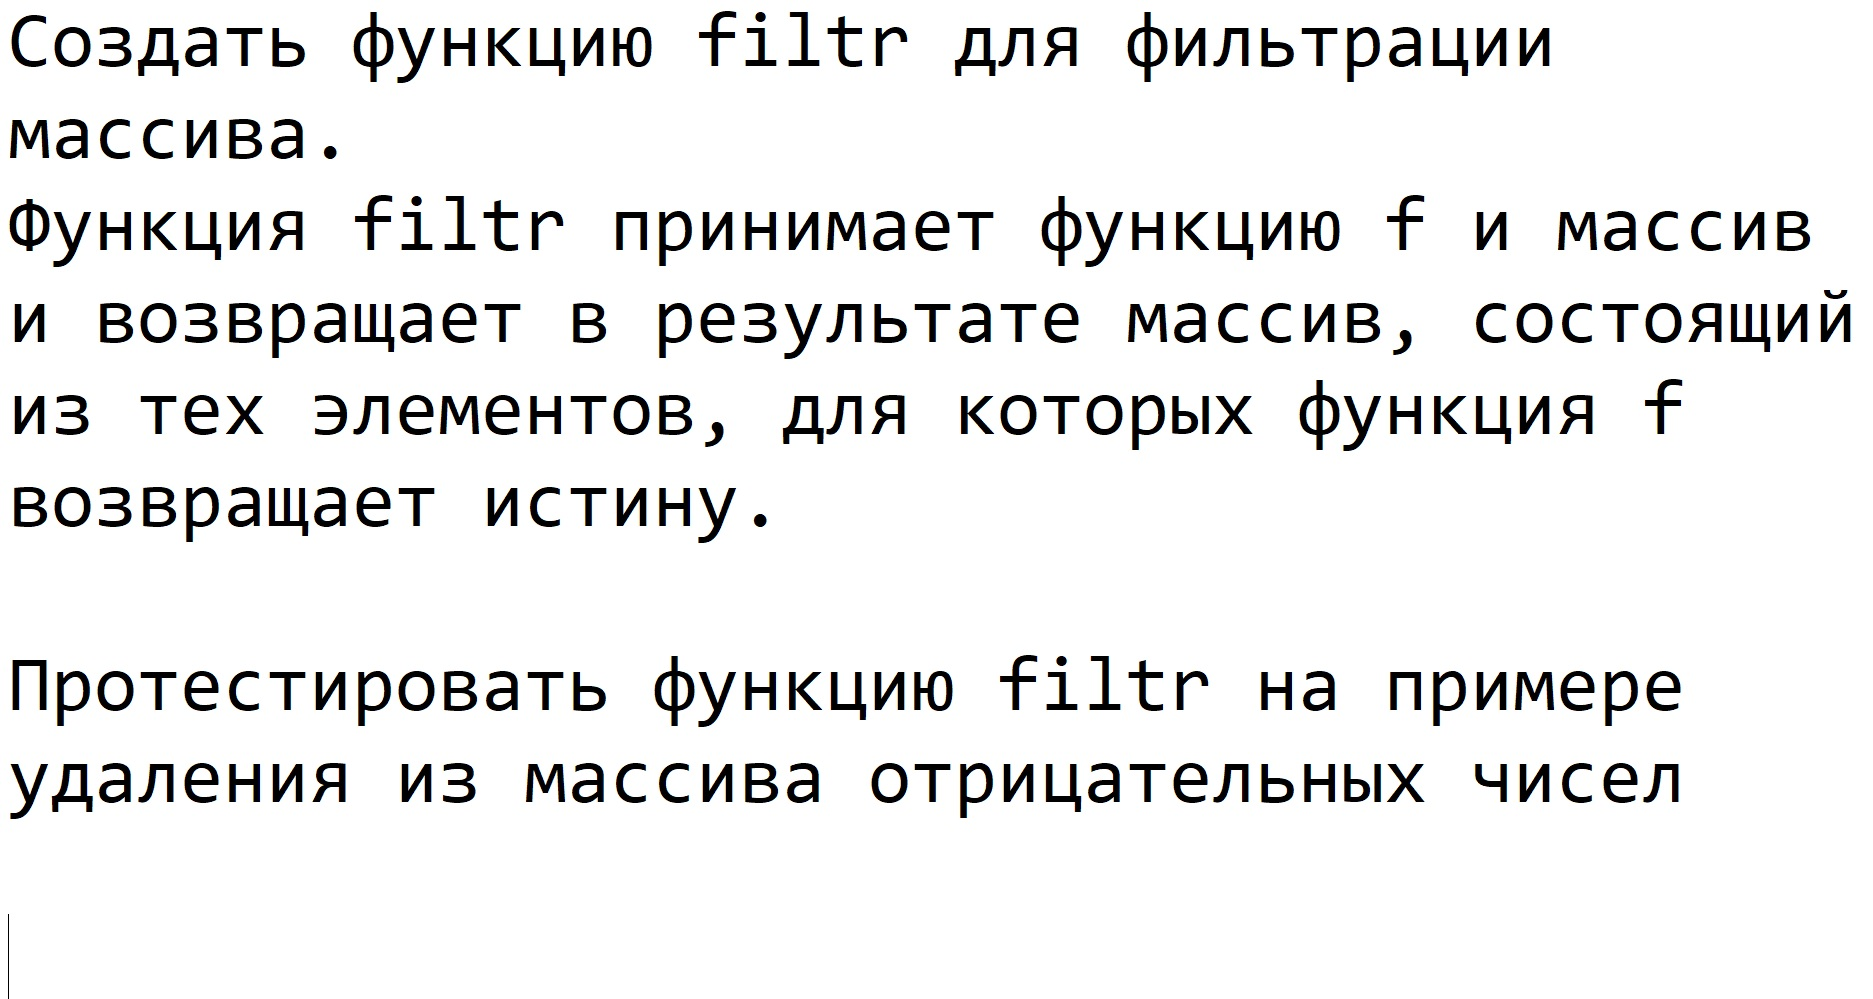
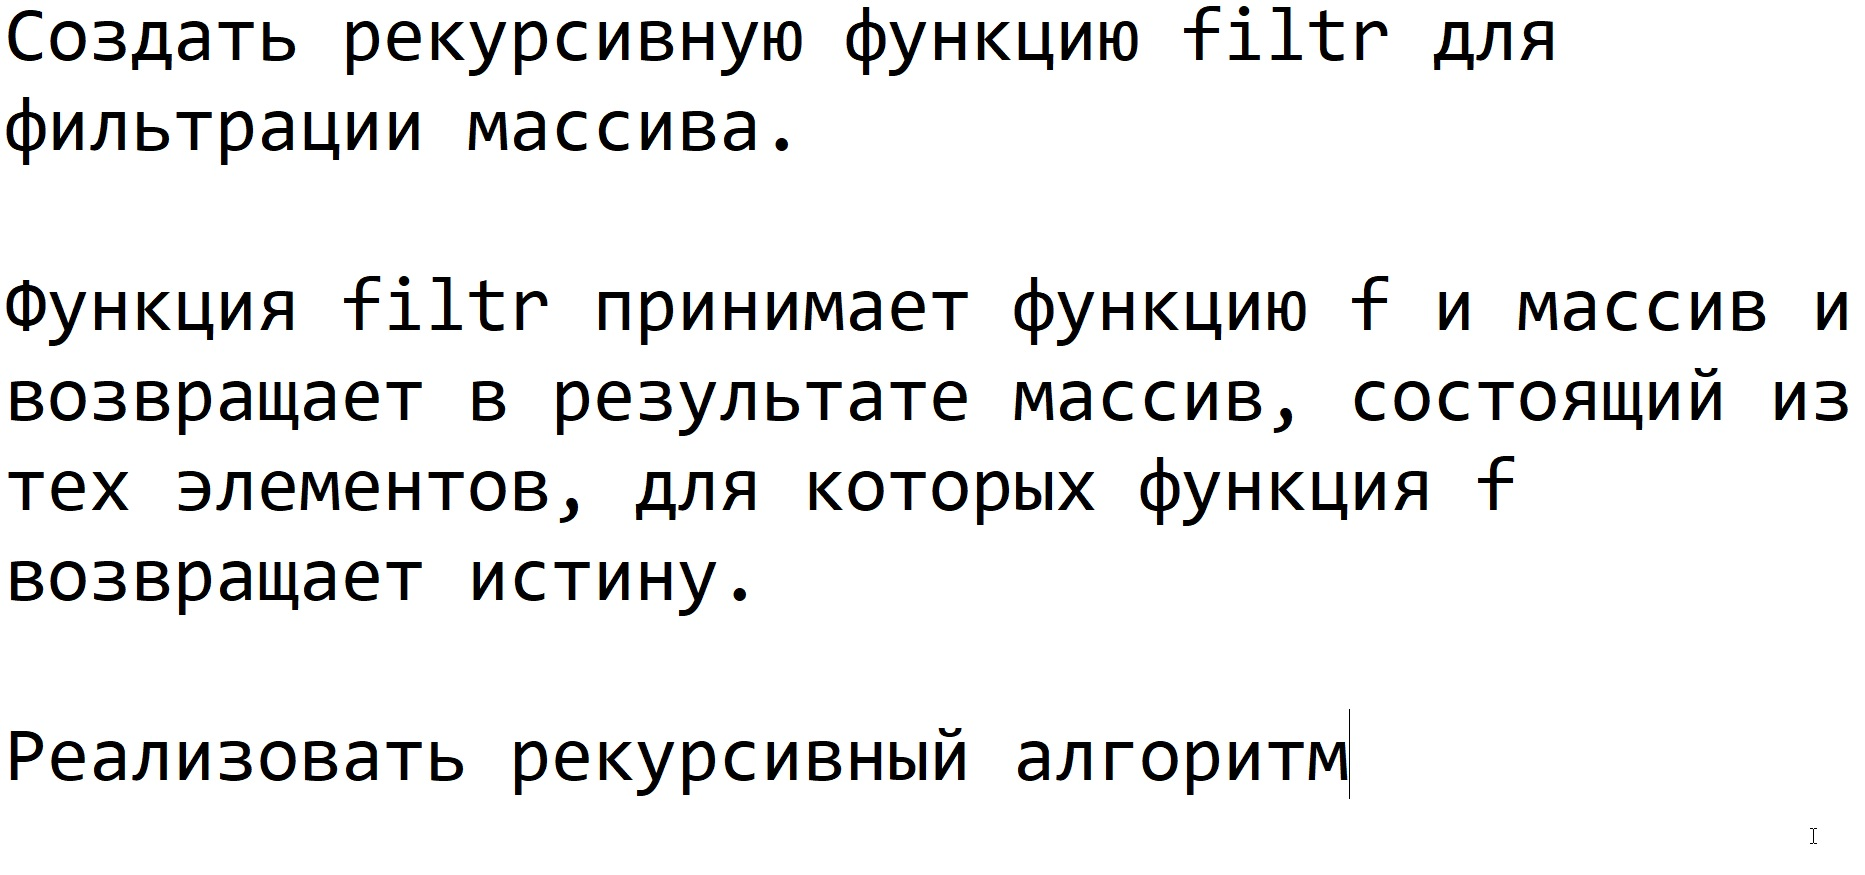
add hw_26.12.2024

diff --git a/hw_26_12_2024.py b/hw_26_12_2024.py
@@ -1,0 +1,21 @@
+# Создать рекурсивную функцию filtr для фильтрации массива. Функция filtr принимает функцию f и массив и возвращает
+# в результате массив, состоящий из тех элементов, для которых функция f возвращает истину.
+
+
+num_list = [-89, 0, -1, 2, 3, 4, -5]  # исходный список чисел
+
+
+def f(x):
+    return x >= 0
+
+
+def filtr(func, number_list, arr=[]):
+    if len(number_list) == 0:  # базовый случай
+        return arr
+    else:  # рекурсивный случай
+        if func(number_list[0]):
+            arr.append(number_list[0])
+        return filtr(func, number_list[1:], arr)
+
+
+print(filtr(f, num_list))

diff --git a/README.md b/README.md
@@ -1,1 +1,1 @@
-To check it you should open and run pyton files
+To check it you should open and run pyton file
